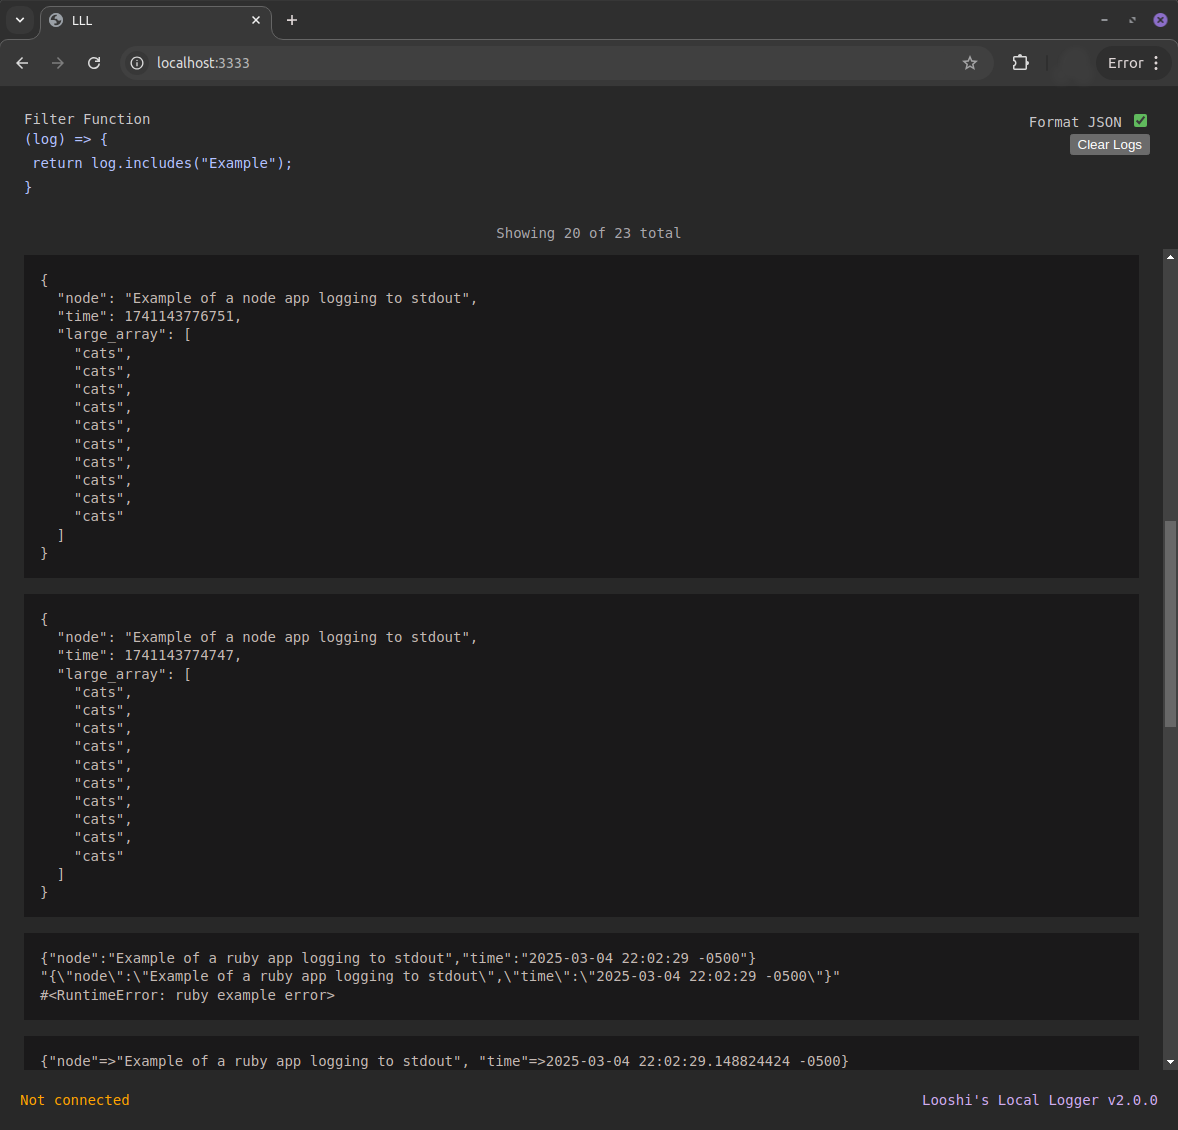
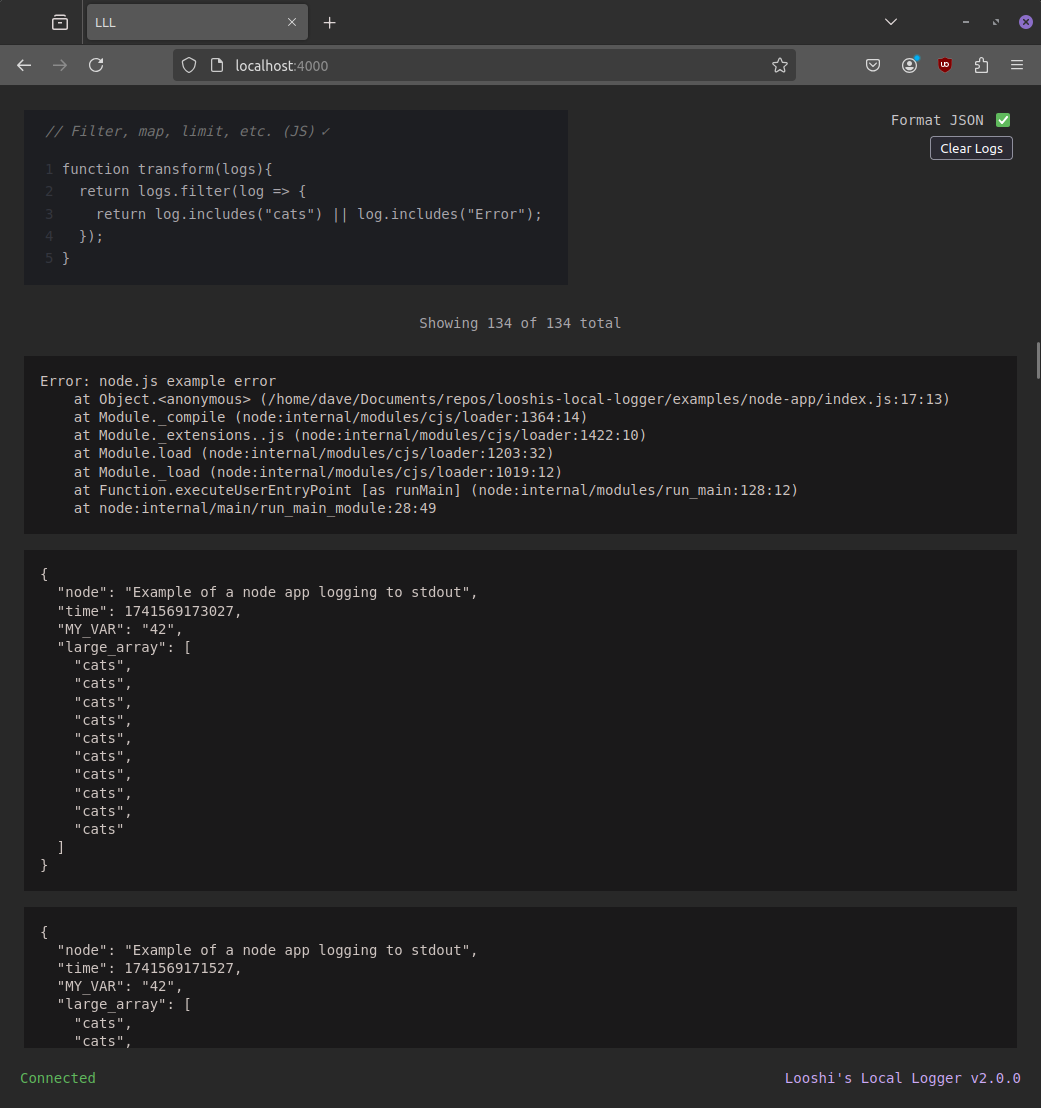
Add debounce, update docs

diff --git a/src/client.html b/src/client.html
@@ -111,7 +111,17 @@
       outline: 2px solid transparent;
       line-height: 1.6em;
     }
+    ol {
+      counter-reset: item;
+      list-style-type: none;
+      padding-left: 20px;
+    }
 
+    li:before {
+      content: counter(item) "  ";
+      counter-increment: item;
+      color: #34363e;
+    }
     li::marker {
       color: #34363e;
     }
@@ -135,13 +145,20 @@
       left: -1000px;
     }
     #copy-button {
+      visibility: hidden;
       position: absolute;
       top: 4px;
       right: 4px;
     }
     #transform-instructions {
       font-style: italic;
-      opacity: 0.6;
+      padding-right: 0;
+      color: rgb(115, 115, 115);
+    }
+    #transform-fn-status {
+      display: inline-block;
+      width: 14px;
+      text-align: right;
     }
   </style>
 
@@ -151,7 +168,11 @@
     <header>
       <div>
         <div class="filter-function-area">
-          <p id="transform-instructions">// Filter, map, limit, etc. (JS).</p>
+          <p id="transform-instructions">
+            // Filter, map, limit, etc. (JS)<span
+              id="transform-fn-status"
+            ></span>
+          </p>
           <ol
             id="code-editor"
             contenteditable
@@ -193,7 +214,7 @@
 
     <script>
       const allLogs = [];
-      const STATE = { FORMAT_JSON: true };
+      const STATE = { FORMAT_JSON: true, TRANSFORM_FN: (logs) => logs };
       const filterFunctionEl = document.getElementById("code-editor");
       const filterFunctionErrorEl = document.getElementById(
         "filter-function-error"
@@ -204,9 +225,22 @@
       );
       const mainEl = document.getElementsByTagName("main")[0];
       const status = document.getElementById("status");
+      const transformFnStatusEl = document.getElementById(
+        "transform-fn-status"
+      );
 
+      let timeoutId;
       filterFunctionEl.addEventListener("keyup", () => {
-        render(allLogs);
+        transformFnStatusEl.innerHTML = "...";
+        clearTimeout(timeoutId); // debounces
+        timeoutId = setTimeout(() => {
+          STATE.TRANSFORM_FN = new Function(
+            "all_logs",
+            filterFunctionEl.textContent + "return transform(all_logs);"
+          );
+          transformFnStatusEl.innerHTML = "&#x2713;";
+          render(allLogs);
+        }, 777);
       });
 
       clearButtonEl.addEventListener("click", () => {
@@ -229,7 +263,7 @@
       });
       mainEl.addEventListener("mouseover", (e) => {
         if (e.target.className === "log" && e.target.id !== "copy-button") {
-          copyBtn.setAttribute("style", "visibility: initial");
+          copyBtn.setAttribute("style", "visibility: visible");
           e.target.prepend(copyBtn);
         }
       });
@@ -242,13 +276,9 @@
         let filteredLogs;
 
         try {
-          const fn = new Function(
-            "all_logs",
-            filterFunctionEl.textContent + "return transform(all_logs);"
-          );
-
-          filteredLogs = fn(logs);
+          filteredLogs = STATE.TRANSFORM_FN(logs);
         } catch (e) {
+          transformFnStatusEl.innerHTML = "...";
           filterFunctionErrorEl.textContent = e.message;
           filteredLogs = [];
         }

diff --git a/README.md b/README.md
@@ -19,7 +19,7 @@ npm i -g looshis-local-logger
 ## How To Use
 
 ```sh
-./path-to-your-app |& lll
+./your-app |& lll
 # LLL is ready at: http://localhost:4000 open in browser
 ```
 
@@ -27,14 +27,17 @@ npm i -g looshis-local-logger
 
 ```sh
 # Pipe standard error in addition to standard output to lll.
-npm run start |& lll
+./your-app  |& lll
 
-# Pipe only standard output to lll.
-npm run start | lll
+# Pipe only standard output to lll, ignore standard error
+./your-app | lll
 
 # Specify a different port for lll
-LLL_PORT=1234; npm run start |& lll
+/your-app |& LLL_PORT=1234 lll
  # http://localhost:1234
+
+# Run an npm script
+npm run start |& lll
 
 # Start a ruby app
 ruby ./ruby.rb |& lll
